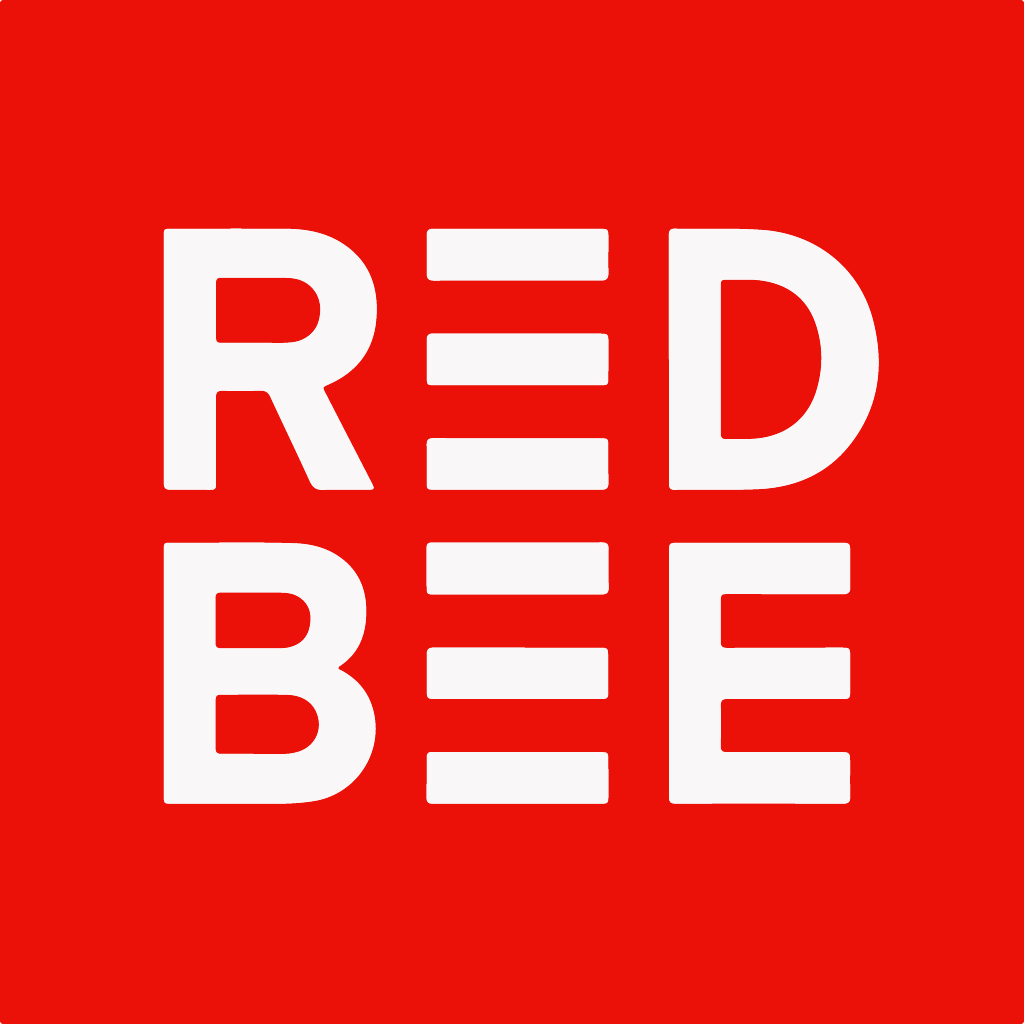
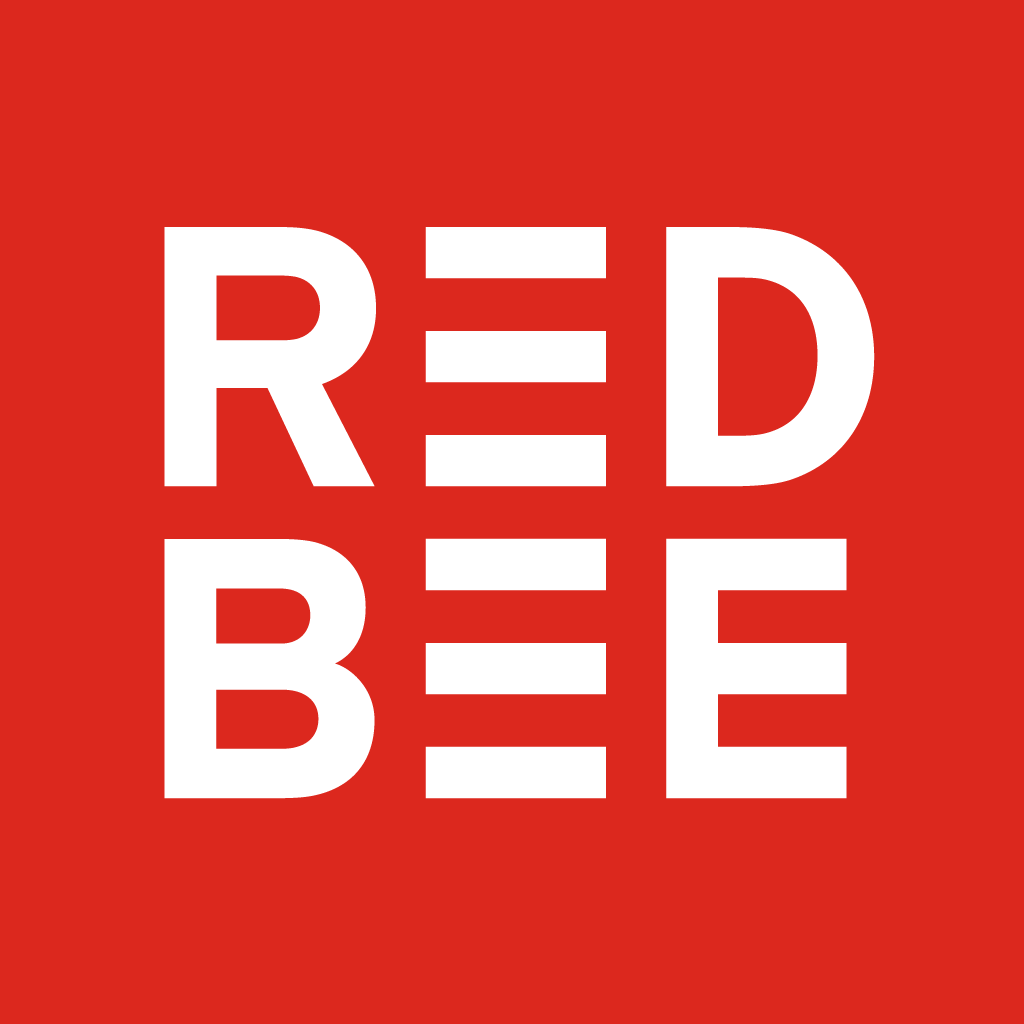
Updated iconography

diff --git a/iOSReferenceApp/Resources/Colors/UIColor+AppColors.swift b/iOSReferenceApp/Resources/Colors/UIColor+AppColors.swift
@@ -10,14 +10,42 @@ import UIKit
 
 extension UIColor {
     static var redBeeRed: UIColor {
-        return UIColor(red: 0.922, green: 0.067, blue: 0.035, alpha: 1)
+        return UIColor("#dc281e")
+    }
+    
+    static var redBeeMaroon: UIColor {
+        return UIColor("#781428")
+    }
+    
+    static var redBeeSalmon: UIColor {
+        return UIColor("#f0645a")
     }
     
     static var redBeeBlack: UIColor {
-        return UIColor(red: 0.047, green: 0.055, blue: 0.059, alpha: 1)
+        return UIColor("#000000")
+    }
+    
+    static var redBeeCharcoal: UIColor {
+        return UIColor("#323232")
     }
     
     static var redBeeDarkGrey: UIColor {
-        return UIColor(red: 0.094, green: 0.094, blue: 0.102, alpha: 1)
+        return UIColor("#3c505a")
+    }
+    
+    static var redBeeMidGrey: UIColor {
+        return UIColor("#a0a0a0")
+    }
+    
+    static var redBeeLightGrey: UIColor {
+        return UIColor("#dcdcdc")
+    }
+    
+    static var redBeePaper: UIColor {
+        return UIColor("#f5f5f5")
+    }
+    
+    static var redBeeWhite: UIColor {
+        return UIColor("#ffffff")
     }
 }
